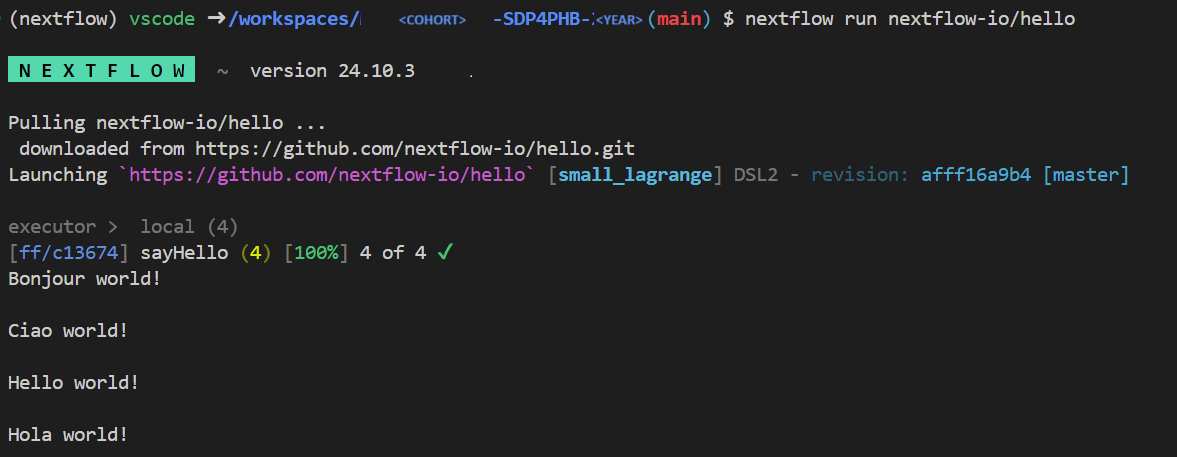
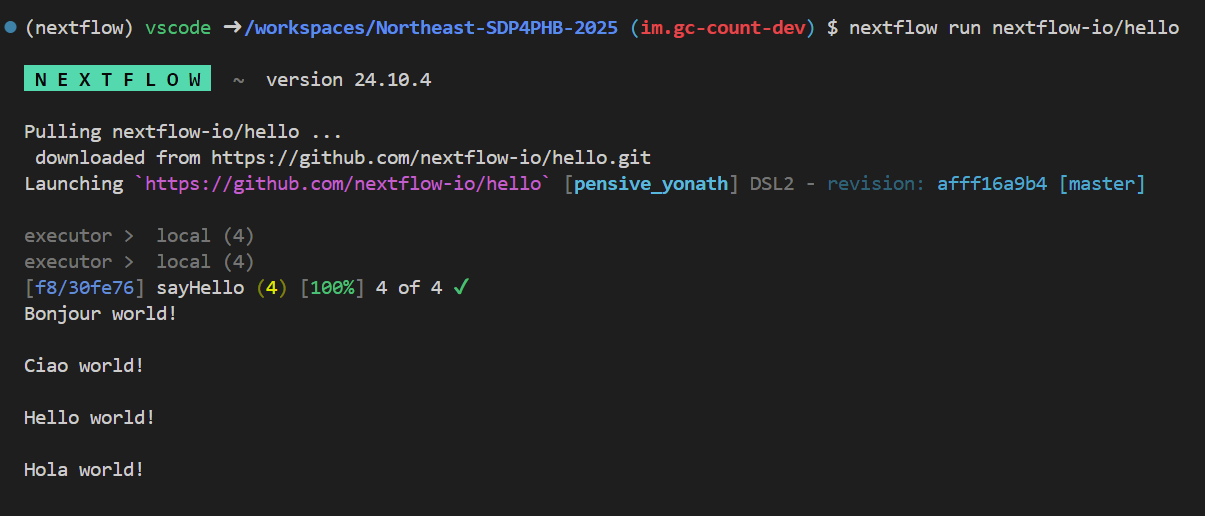
update exercises week 4

diff --git a/exercises/exercise04.md b/exercises/exercise04.md
@@ -52,7 +52,7 @@ source ~/.bashrc
 If everything was successful, you should now have `(base)` at the start of your command line:
 
 ```{bash}
-(base) vscode ➜ /workspaces/<COHORT>-SDP4PHB-<YEAR> (main) $  
+(base) vscode ➜ /workspaces/Northeast-SDP4PHB-2025 (main) $  
 ```
 
 ---
@@ -99,14 +99,14 @@ conda activate nextflow
 nextflow -version
 
       N E X T F L O W
-      version 24.10.3 build 5933
+      version 24.10.4 build 5933
       created 16-12-2024 15:34 UTC (15:34 GMT)
       cite doi:10.1038/nbt.3820
       http://nextflow.io
 
 ```
 
-Based on this, Nextflow v22.04.0 was installed in my `nextflow` environment. You can see the release notes at [v24.10.3](https://github.com/nextflow-io/nextflow/releases/tag/v24.10.3).
+Based on this, Nextflow v24.10.4 was installed in my `nextflow` environment. You can see the release notes at [v24.10.4](https://github.com/nextflow-io/nextflow/releases/tag/v24.10.4).
 
 ## Execute "Hello World"
 
